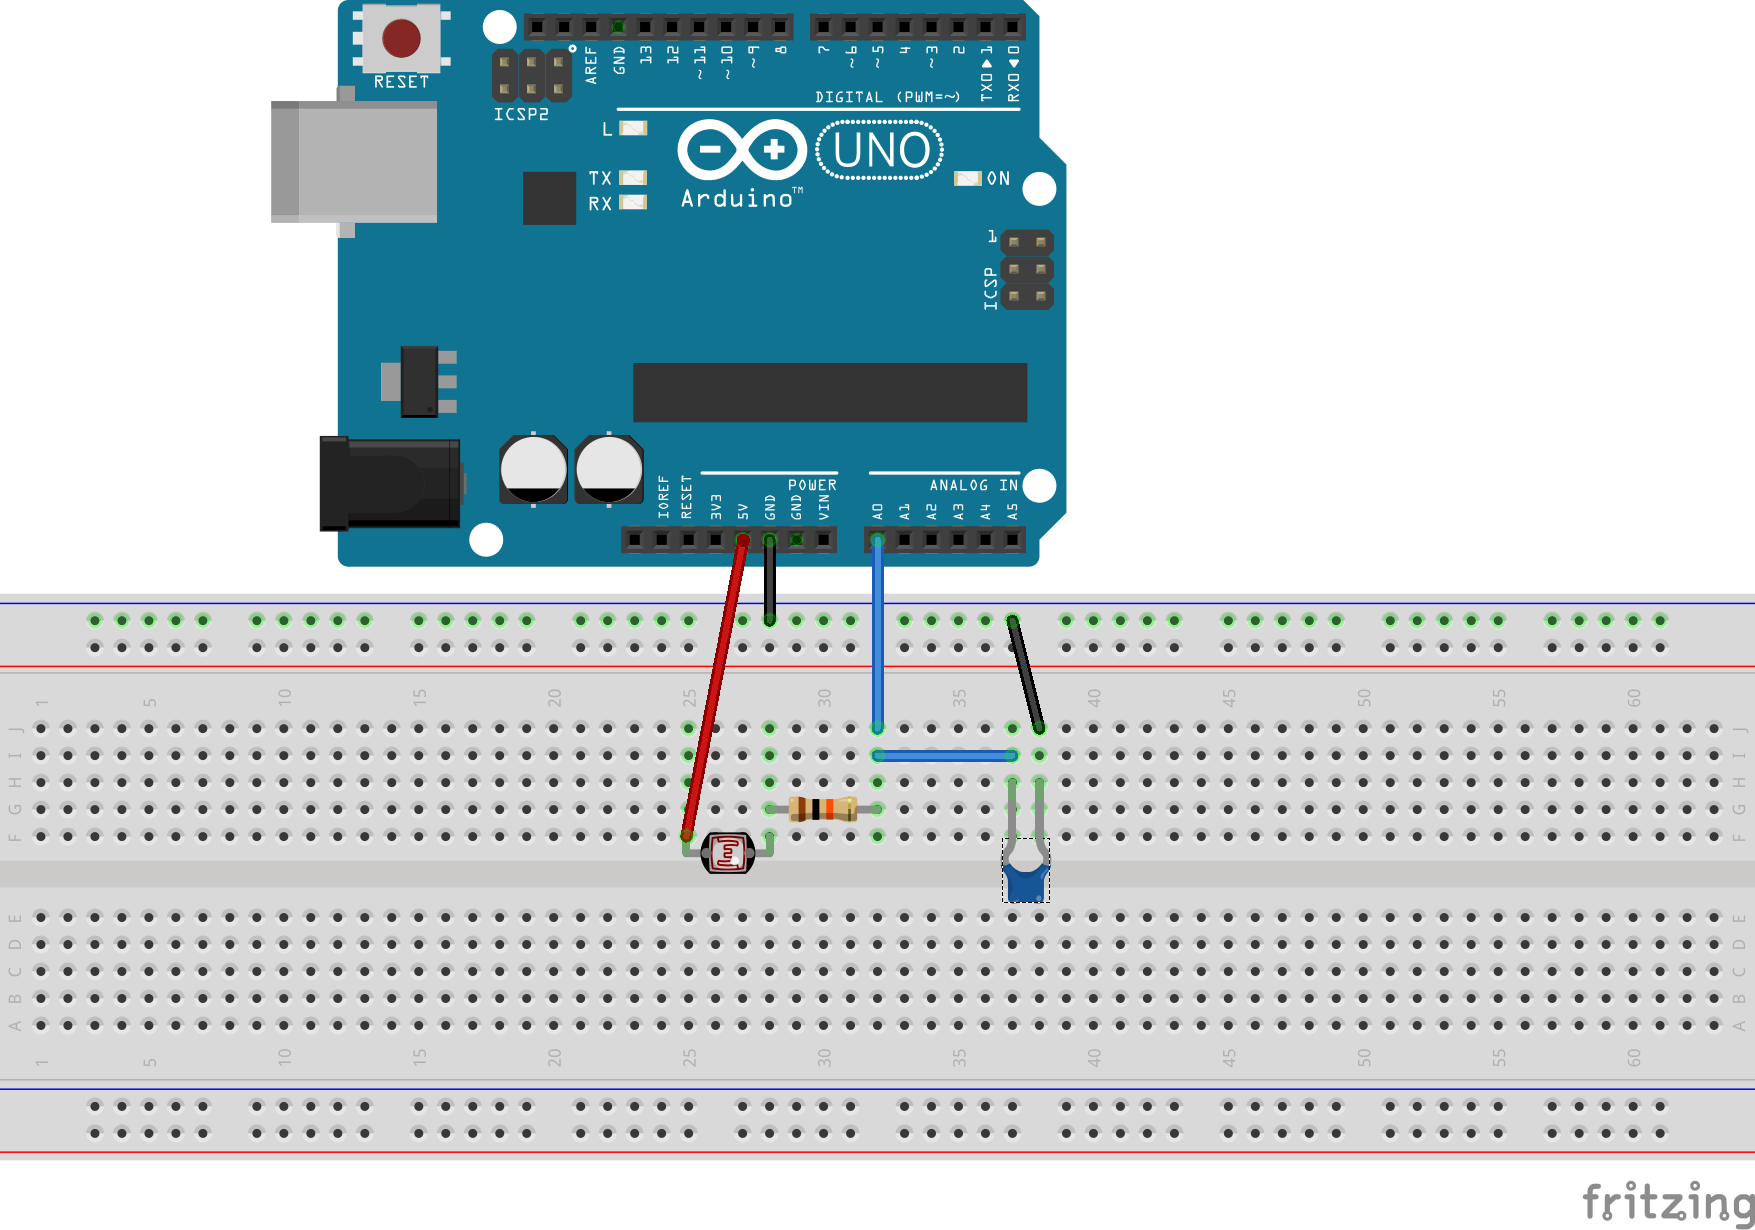
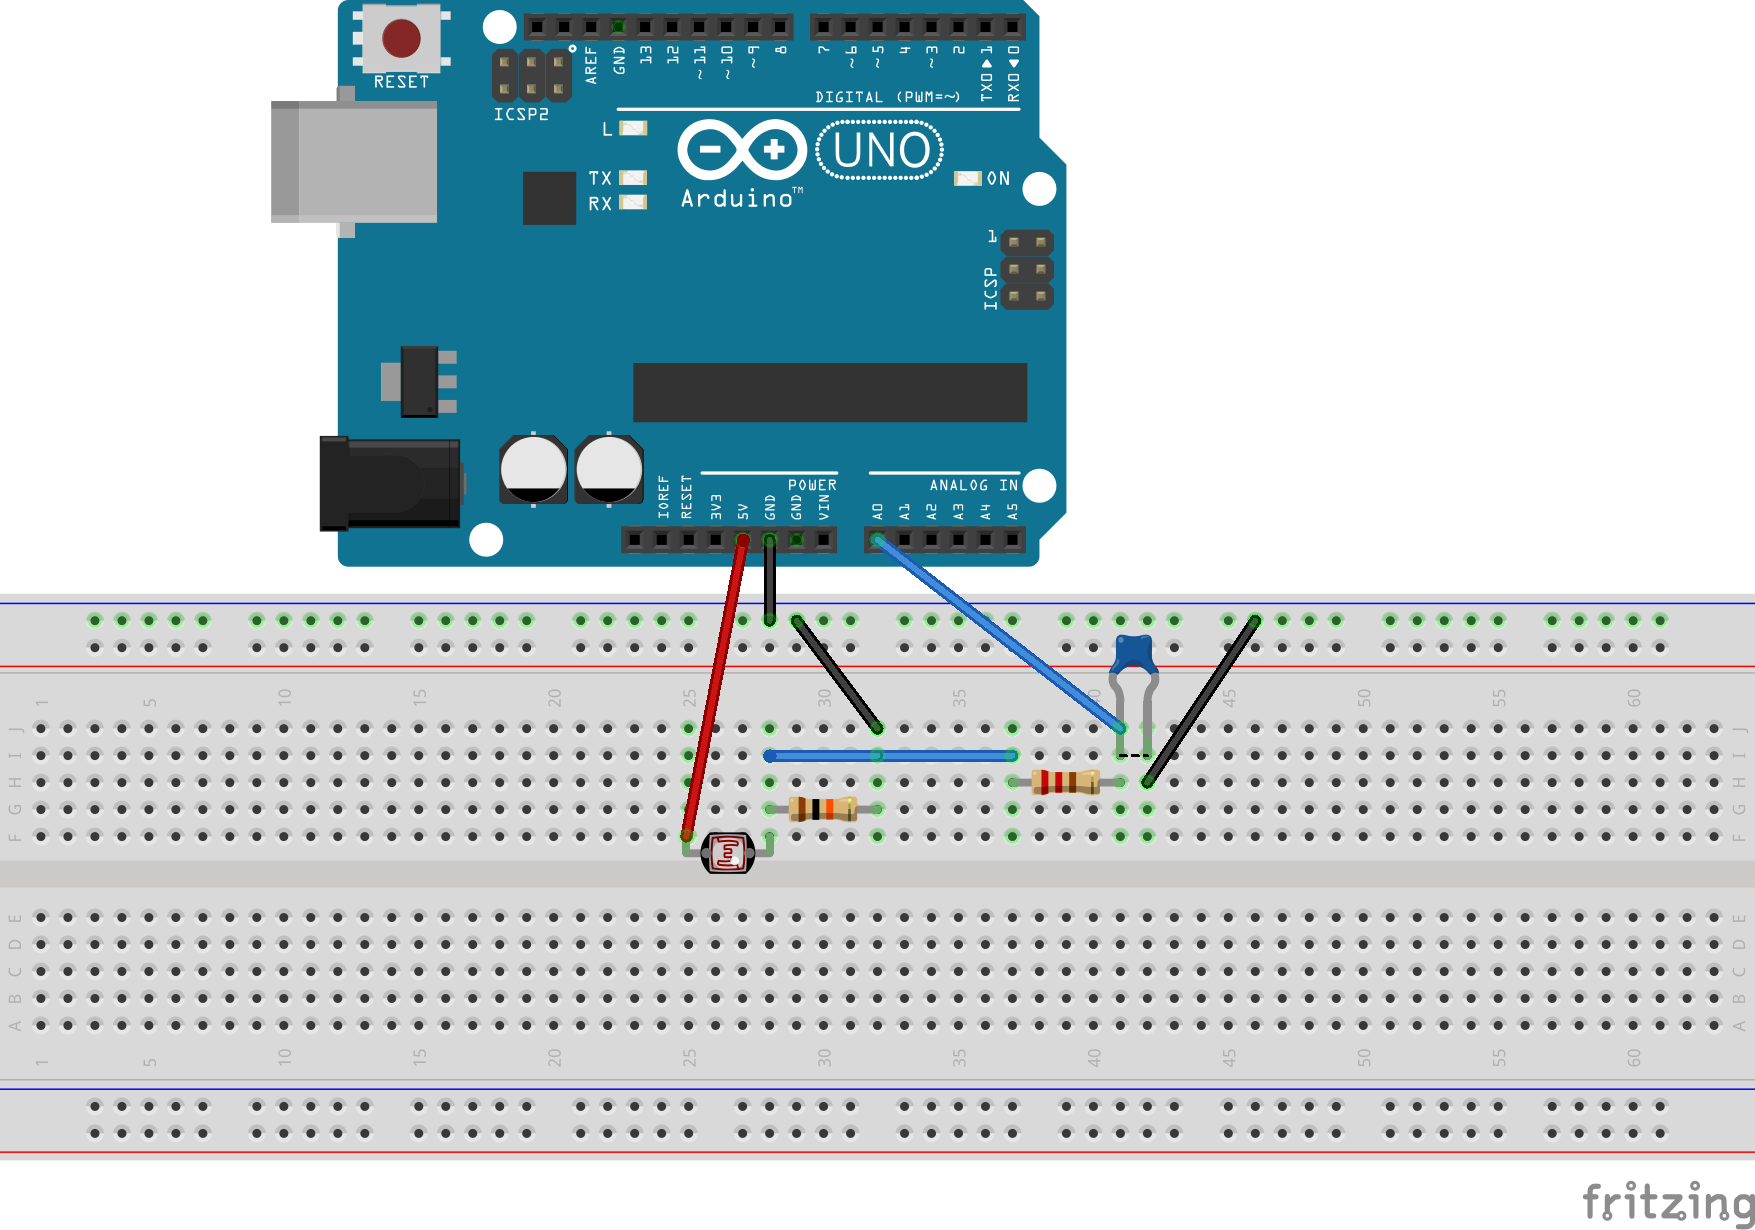
adding more charts

diff --git a/cse592.html b/cse592.html
@@ -160,6 +160,10 @@
                                         In this part, we made a circuit consisting of a photoresistor and an LED, driven by PWM to control brightness. The photoresistor was wired with a voltage divider and read through analog input 0. With this reading, we used the map function to constrain the raw data to be between 0 and 1023, for PWM output. The LED was driven with PWM, reflecting the corresponding brightness level. Our map function used a hand-measured minimum and maximum value as contraints rather than the actual minimum that can be read from the sensor (0) so that the LED can be turned completely off and on by completely covering or flashing light on the sensor. Below are the circuit diagram and schematics.
                                         <br>
                                         <br>
+                                        <div style="height=auto;width=auto;">
+                                            <img src="img/hw2/demo.GIF" alt="sketch" style="max-width:50%; max-height:50%;">
+                                        </div> <br>
+                                        <br>
 										<div style="height=auto;width=auto;">
                                             <img src="img/hw2/led_ldr_bb.png" alt="sketch" style="max-width:50%; max-height:50%;">
                                         </div>
@@ -168,26 +172,75 @@
                                         <br>
                                         [Some info about max and min possible resistance from photosensor] <br>
                                         <br>
-                                        With this setup, we recorded the raw analog values read and calculated the corresponding voltage out and lux values 
-                                        <u><a href="https://docs.google.com/spreadsheets/d/1BWmzdJiWEowQQj6a-9CX56n803nu1Q1iwRG5HeDBkzQ/edit?usp=sharing">here.</a></u> <br>
+                                        With this setup, we recorded the raw analog values read and calculated the corresponding voltage out and lux values. Our recorded data is uploaded on a spreadsheet 
+                                        <u><a href="https://stonybrook365-my.sharepoint.com/personal/souranil_sen_stonybrook_edu/_layouts/15/guestaccess.aspx?docid=14709d400ae1d40d09d90bfe806b58bf5&authkey=Aa9LyZPabUAQ_TQo82bcue8">here.</a></u> <br>
+                                        
                                         <br>
-                                        [Diagram/Chart of recorded lux here] <br>
-                                        <br>
-                                        We used a hardware RC filter consisting of a resistor and capacitor to smooth out the jittery readings from the photoresistor: <br>
+                                        We used a hardware RC filter consisting of a 100 Ohm resistor and capacitor to smooth out the jittery readings from the photoresistor: <br>
                                         <br>
                                         <div style="height=auto;width=auto;">
                                             <img src="img/hw2/capacitor_bb.png" alt="sketch" style="max-width:50%; max-height:50%;">
                                         </div>
                                         <br>
-                                        With a ____ Ohm resistor and ____ uF capacitor, the cutoff frequency will be _____. The diagram on the left shows the 'smoothed out' readings. <br>
-                                        We also implemented a software filter using a moving average to try to smooth out the readings. The diagram on the right shows the readings after applying this software filter.
+                                        With a 100 Ohm resistor and 0.1 micro Farad capacitor, the cutoff frequency will be 15.9 kHz. The diagram on the left shows the raw analog readings readings while the diagram on the right shows the readings after RC circuit smoothing. <br> <br>
+                                        <div style="height=auto;width=auto; margin:auto;">
+                                            <span>  <img src="img/hw2/raw_chart.png" alt="sketch" style="max-width:50%; max-height:50%; margin:auto;" align="left">
+                                                <img src="img/hw2/smooth_chart.png" alt="sketch" style="max-width:50%; max-height:50%; margin:auto;" align="left"> 
+                                            </span> <br>
+                                        </div> <br>
                                         <br>
-                                        <!--
-                                        <div style="height=auto;width=auto;">
-                                            <span>  <img src="img/hw2/s.JPG" alt="sketch" style="max-width:50%; max-height:50%;"> 
-                                                <img src="img/hw2/o.JPG" alt="sketch" style="max-width:50%; max-height:50%;"> 
-                                            </span>
-                                        </div> -->
+                                        <br>
+                                        Our code for reading the input and caluclating lux is below:
+                                        <br>
+                                        <br>
+                                        <pre>
+                                        
+const int analogInPin = A0;  // Analog input pin that the potentiometer is attached to
+const int analogOutPin = 11; // Analog output pin that the LED is attached to
+
+int sensorValue;        // value read from the pot
+int outputValue = 0;        // value output to the PWM (analog out)
+
+float vOut = 0;
+float rLDR;
+float lux;
+float freq;
+
+void setup() {
+  // initialize serial communications at 9600 bps:
+  Serial.begin(9600);
+}
+
+void loop() {
+    // read the analog in value:
+  sensorValue = analogRead(analogInPin);
+  // map it to the range of the analog out:
+  outputValue = map(sensorValue, 0, 1023, 0, 255);
+  // change the analog out value:
+  analogWrite(analogOutPin, outputValue);
+
+  vOut = sensorValue * 0.0048828125;
+  rLDR = (10.0*vOut)/(5.0-vOut);  
+  lux = (250/vOut) - 50;
+  freq = 1/(2 * 3.14 * rLDR);
+
+//  // print the results to the serial monitor:
+  Serial.print(sensorValue);
+  Serial.print("\t ");
+  Serial.print(vOut);
+  Serial.print("\t ");
+//  Serial.print(outputValue);
+//  Serial.print("\t ");
+  Serial.print(rLDR);
+  Serial.print("\t ");
+  Serial.print(lux);
+  Serial.print("\t ");
+  Serial.println(freq);
+  
+
+  delay(100);
+}
+                                        </pre>
 									</div>
 								</div>
 							</div>
